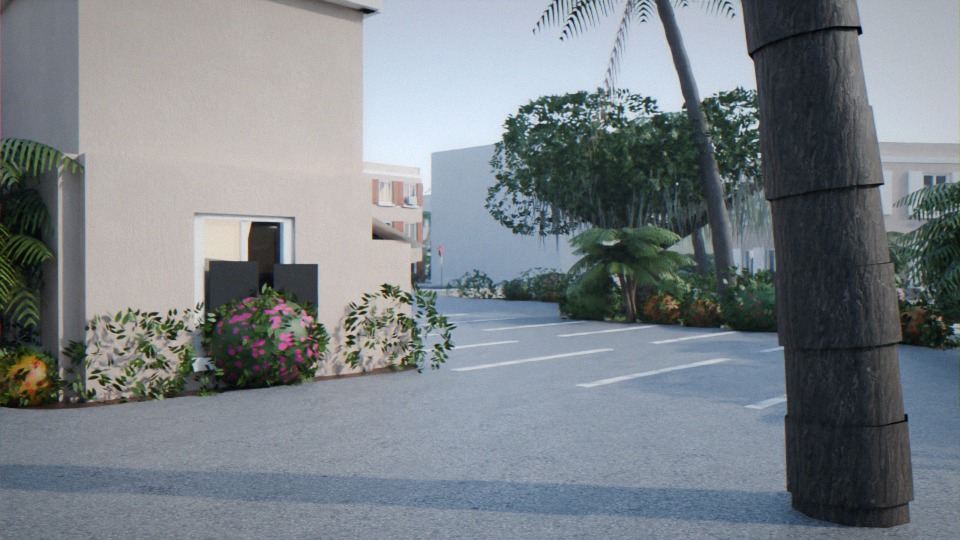
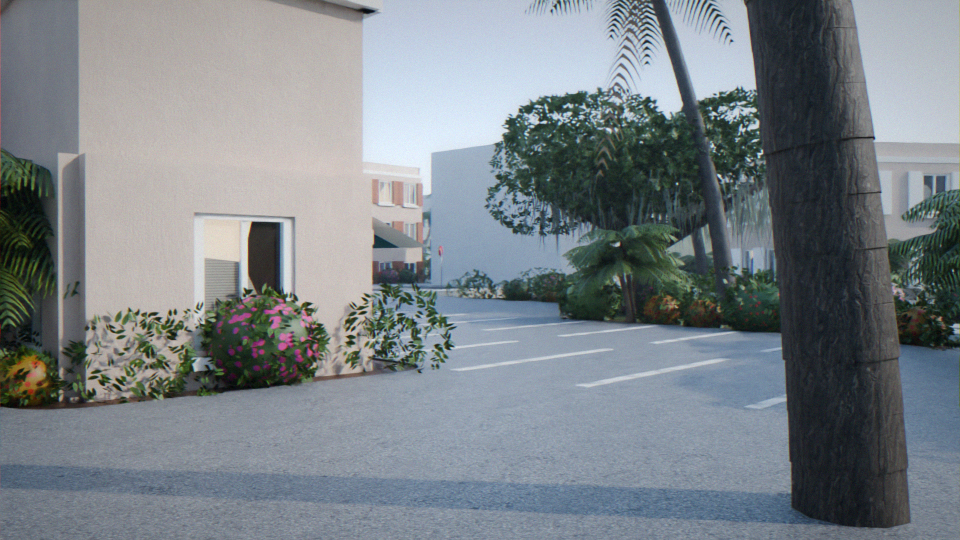
Real shop interiors by business type (salon, food, office, clothing, jewelry, gym, retail) behind full glazing; signs name the business; park trees on the real ground; denser varied grass
Claude-Session: https://claude.ai/code/session_01PWmpu53kThn7KFGp88wUgC

diff --git a/costa-verde/tools/blender/detail_town.py b/costa-verde/tools/blender/detail_town.py
@@ -31,7 +31,7 @@ SURF = {
     "frame": (0.5, 0, None), "roof_tile": (0.75, 0, None), "roof_flat": (0.95, 0, (176, 172, 164)),
     "metal": (0.4, 0.7, (178, 180, 182)), "awning": (0.8, 0, None), "door": (0.6, 0, None), "concrete": (0.9, 0, (198, 194, 186)),
     "asphalt": (0.92, 0, (52, 52, 55)), "paint": (0.7, 0, None), "pool": (0.05, 0, (60, 170, 210)), "wood": (0.8, 0, (150, 118, 84)),
-    "pole": (0.5, 0.6, (90, 92, 94)), "lamp": (0.3, 0, (255, 244, 214)), "solar": (0.08, 0.3, (22, 30, 52)), "neon": (0.3, 0, (255, 40, 50)),
+    "pole": (0.5, 0.6, (90, 92, 94)), "lamp": (0.3, 0, (255, 244, 214)), "solar": (0.08, 0.3, (22, 30, 52)), "neon": (0.3, 0, (255, 40, 50)), "shopglass": (0.02, 0, (30, 36, 40)), "mirror": (0.02, 1.0, (220, 224, 226)), "floor": (0.35, 0, None), "fabric": (0.85, 0, None),
 }
 PASTEL = [(242, 200, 168), (196, 226, 206), (246, 228, 160), (240, 170, 150), (180, 212, 230), (244, 236, 214), (236, 236, 230)]
 HOUSE_COL = [(246, 240, 224), (236, 226, 200), (214, 222, 200), (206, 220, 230), (240, 214, 190), (250, 250, 246)]
@@ -273,6 +273,118 @@ def pitched_roof(m, poly, y, kind, tile_col, wall_col, rng=None):
         m.box("trim", (mx, y - 0.4, mz), ((b[0] - a[0]) / L, (b[2] - a[2]) / L), L, 0.9, 0.5)
 
 
+INTERIOR_KIND = {"Barber shop": "salon", "Beauty salon": "salon", "Nail salon": "salon", "Full-service restaurant": "food", "Fast food": "food",
+                 "Coffee shop / snack bar": "food", "Bar / nightclub": "food", "Clothing store": "clothing", "Thrift / used goods": "clothing",
+                 "Shoe store": "clothing", "Jewelry store": "jewelry", "Fitness centre / gym": "gym"}
+OFFICE = ("office", "agency", "Doctor", "Dentist", "care", "Veterinarian", "Law", "Real estate", "Insurance", "school", "Bank", "Credit")
+SIGN_TEXT = {"Barber shop": "BARBER", "Beauty salon": "SALON", "Full-service restaurant": "RESTAURANT", "Fast food": "BURGERS",
+             "Coffee shop / snack bar": "CAFE", "Clothing store": "BOUTIQUE", "Thrift / used goods": "THRIFT", "Jewelry store": "JEWELRY",
+             "Doctor's office": "FAMILY MEDICINE", "Real estate office": "REALTY", "Insurance agency": "INSURANCE", "Law office": "LAW OFFICE",
+             "Pharmacy": "PHARMACY", "Convenience store": "FOOD MART", "Sporting goods (incl. gun shops)": "SPORTS", "Fitness centre / gym": "FITNESS",
+             "Veterinarian": "ANIMAL CLINIC", "Urgent care / outpatient centre": "URGENT CARE", "Tire shop": "TIRES", "Child day care": "DAY CARE",
+             "Auto repair (general)": "AUTO REPAIR", "Body / paint shop": "BODY SHOP", "Used car dealer": "AUTO SALES"}
+
+
+def interior_kind(use):
+    if use in INTERIOR_KIND:
+        return INTERIOR_KIND[use]
+    return "office" if any(k in (use or "") for k in OFFICE) else "retail"
+
+
+def interior(m, poly, kind, rng, ceil):
+    """Furnish a shop's ground floor so it reads through the glass. Local frame: street at min z."""
+    xs, zs = [p[0] for p in poly], [p[1] for p in poly]
+    x0, x1, z0, z1 = min(xs) + 1.5, max(xs) - 1.5, min(zs) + 1.5, max(zs) - 1.5
+    ok = lambda x, z: inside(poly, x, z) and x0 < x < x1 and z0 < z < z1  # noqa: E731
+    U = (1, 0)
+    floor_col = {"salon": (230, 230, 226), "food": (150, 110, 80), "office": (120, 120, 126), "clothing": (190, 170, 140),
+                 "jewelry": (40, 40, 44), "gym": (50, 50, 54), "retail": (210, 210, 204)}[kind]
+    m.face("floor", [(x, 0.4, z) for x, z in poly][::-1], floor_col)
+    m.face("trim", [(x, ceil - 0.3, z) for x, z in poly], (236, 234, 228))  # ceiling, facing down
+    for gx in range(int(x0) + 3, int(x1) - 1, 8):  # ceiling light panels
+        for gz in range(int(z0) + 3, int(z1) - 1, 8):
+            if ok(gx, gz):
+                m.box("lamp", (gx, ceil - 0.45, gz), U, 3, 0.15, 1.2)
+    depth = z1 - z0
+    if kind == "salon":
+        for k, x in enumerate(range(int(x0) + 3, int(x1) - 2, 6)):
+            z = z0 + 3.5
+            if ok(x, z + 4):
+                m.box("pole", (x, 1.0, z + 4), U, 1.0, 1.6, 1.0)  # chair base
+                m.box("fabric", (x, 2.4, z + 4), U, 2.6, 1.0, 2.6, (30, 30, 32))  # seat
+                m.box("fabric", (x, 4.0, z + 5.2), U, 2.6, 3.0, 0.6, (30, 30, 32))  # back
+                m.box("mirror", (x, 5.5, z1 - 0.3), U, 4, 5, 0.2)  # mirror on the back wall
+                m.box("wood", (x, 3.4, z1 - 1.2), U, 4.5, 0.4, 1.6)  # station shelf
+        m.box("wood", (x1 - 5, 2.0, z0 + 3), U, 6, 4, 2, (240, 240, 236))  # reception
+    elif kind == "food":
+        m.box("wood", ((x0 + x1) / 2, 2.2, z1 - 2), U, (x1 - x0) * 0.7, 4.4, 2.2)  # counter
+        m.box("door", ((x0 + x1) / 2, 7.5, z1 - 0.3), U, (x1 - x0) * 0.5, 2.5, 0.2, (25, 25, 25))  # menu board
+        for x in range(int(x0) + 3, int(x1) - 2, 7):
+            for z in (z0 + 4, z0 + 4 + min(8, depth * 0.35)):
+                if ok(x, z):
+                    m.box("wood", (x, 3.5, z), U, 3.2, 0.3, 3.2, (120, 80, 50))  # table
+                    m.box("pole", (x, 1.7, z), U, 0.4, 3.4, 0.4)
+                    for dx, dz in ((-2.3, 0), (2.3, 0)):
+                        m.box("fabric", (x + dx, 2.0, z + dz), U, 1.6, 0.4, 1.6, rng.choice([(140, 40, 30), (40, 40, 40), (200, 170, 60)]))
+                        m.box("fabric", (x + dx * 1.3, 3.5, z + dz), U, 0.3, 3.0, 1.6, (40, 40, 40))
+                    m.box("lamp", (x, ceil - 3, z), U, 0.8, 0.8, 0.8)  # pendant light
+    elif kind == "office":
+        for x in range(int(x0) + 4, int(x1) - 3, 9):
+            for z in (z0 + 6, z0 + 6 + min(9, depth * 0.4)):
+                if ok(x, z):
+                    m.box("wood", (x, 3.3, z), U, 5, 0.3, 2.6, (200, 196, 186))  # desk
+                    m.box("pole", (x - 2.2, 1.6, z), U, 0.3, 3.2, 2.4)
+                    m.box("pole", (x + 2.2, 1.6, z), U, 0.3, 3.2, 2.4)
+                    m.box("door", (x, 4.6, z + 0.6), U, 2.0, 1.4, 0.15, (20, 20, 22))  # monitor
+                    m.box("fabric", (x, 2.3, z - 2.0), U, 1.8, 2.6, 1.8, (30, 30, 34))  # chair
+        for x in range(int(x0) + 2, int(x1) - 1, 3):  # filing cabinets / shelving along the back
+            if ok(x, z1 - 1):
+                m.box("metal", (x, 2.6, z1 - 1), U, 2.6, 5.2, 1.6, (170, 172, 170))
+        m.box("fabric", (x0 + 3, 1.8, z0 + 2.5), U, 5, 1.6, 2, (60, 90, 120))  # waiting bench by the window
+    elif kind == "clothing":
+        for x in range(int(x0) + 4, int(x1) - 3, 7):
+            z = z0 + 6
+            if ok(x, z):
+                m.box("pole", (x, 5.2, z), U, 5, 0.2, 0.2)  # rail
+                for k in range(9):  # garments
+                    m.box("fabric", (x - 2.2 + k * 0.55, 3.6, z), U, 0.35, 3.0, 2.0,
+                          rng.choice([(200, 60, 60), (40, 60, 110), (230, 230, 220), (30, 30, 30), (90, 130, 90), (210, 170, 120)]))
+        for x in range(int(x0) + 2, int(x1) - 1, 4):  # wall shelves with folded stacks
+            if ok(x, z1 - 1):
+                for lvl in (2, 4, 6):
+                    m.box("wood", (x, lvl, z1 - 1), U, 3.6, 0.2, 1.6)
+                    m.box("fabric", (x, lvl + 0.5, z1 - 1), U, 3.0, 0.8, 1.2, rng.choice([(170, 50, 50), (50, 70, 120), (220, 220, 210)]))
+        for k in range(2):  # mannequins in the window
+            x = x0 + 4 + k * 6
+            if ok(x, z0 + 2.5):
+                m.box("trim", (x, 3.4, z0 + 2.5), U, 1.0, 6.4, 0.8, (236, 228, 214))
+                m.box("fabric", (x, 4.2, z0 + 2.5), U, 1.6, 2.6, 1.2, rng.choice([(180, 40, 60), (30, 30, 30)]))
+    elif kind == "jewelry":
+        for x in range(int(x0) + 4, int(x1) - 3, 7):
+            for z in (z0 + 5, z1 - 3):
+                if ok(x, z):
+                    m.box("wood", (x, 1.8, z), U, 5, 3.6, 2, (30, 30, 34))
+                    m.box("shopglass", (x, 4.4, z), U, 5, 1.6, 2)  # glass case
+                    m.box("lamp", (x, 3.75, z), U, 4.6, 0.1, 1.6)
+    elif kind == "gym":
+        for x in range(int(x0) + 4, int(x1) - 3, 6):
+            if ok(x, z0 + 5):
+                m.box("pole", (x, 2.4, z0 + 5), U, 2.2, 4.8, 5, (40, 40, 44))  # treadmill
+        m.box("mirror", ((x0 + x1) / 2, 5.5, z1 - 0.3), U, x1 - x0 - 2, 6, 0.2)
+        m.box("pole", ((x0 + x1) / 2, 4, z1 - 3), U, 6, 8, 1, (60, 60, 64))  # rack
+    else:  # retail: shelf gondolas parallel to the street, stocked, checkout by the door
+        for z in [z0 + 7 + k * 6 for k in range(int((depth - 8) // 6))]:
+            for x in range(int(x0) + 4, int(x1) - 3, 8):
+                if ok(x, z):
+                    m.box("metal", (x, 2.8, z), U, 6.5, 5.6, 1.8, (220, 220, 216))
+                    for lvl in (1.2, 2.6, 4.0, 5.4):
+                        for side in (-1, 1):
+                            for k in range(4):
+                                m.box("fabric", (x - 2.4 + k * 1.6, lvl + 0.5, z + side * 1.0), U, 1.2, 0.9, 0.3,
+                                      rng.choice([(200, 50, 40), (40, 90, 160), (240, 200, 60), (60, 140, 80), (240, 240, 230), (150, 60, 140)]))
+        m.box("wood", (x1 - 5, 2.0, z0 + 3.5), U, 6, 4, 2.2, (230, 230, 226))  # checkout
+
+
 def building(idx, b):
     rng = random.Random(idx)
     c, s = math.cos(math.radians(b["rot"])), math.sin(math.radians(b["rot"]))
@@ -302,7 +414,17 @@ def building(idx, b):
             for x, z in poly:
                 m.box("pole", (x * 0.8, (y0 + h) / 2, z * 0.8), (1, 0), 1.5, y0 + h, 1.5)
             continue
-        m.prism("wall", poly, y0 - 3, y0 + h, wall_col, top=False)
+        shop_part = style in ("stucco", "shack") and pi == 0 and y0 == 0 and h >= 11 and any(e[3][1] < -0.7 for e in edges(poly))
+        CEIL = 10.0
+        if shop_part:  # ground floor is a real room open to the street through glass; walls only on the other sides
+            m.prism("wall", poly, CEIL, y0 + h, wall_col, top=False)
+            for e in edges(poly):
+                if e[3][1] >= -0.7:
+                    (ax_, az_), (bx_, bz_) = e[0], e[1]
+                    m.face("wall", [(ax_, -3, az_), (bx_, -3, bz_), (bx_, CEIL, bz_), (ax_, CEIL, az_)], wall_col)
+            interior(m, poly, interior_kind(b.get("use")), rng, CEIL)
+        else:
+            m.prism("wall", poly, y0 - 3, y0 + h, wall_col, top=False)
         if y0 == 0 and style != "tower":  # base course: a slightly proud, darker plinth
             big = [(x * (1 + 0.6 / max(1, abs(x))) if abs(x) > 0.1 else x, z * (1 + 0.6 / max(1, abs(z))) if abs(z) > 0.1 else z) for x, z in poly]
             m.prism("wall", big, -1, 1.8, tuple(int(v * 0.72) for v in wall_col), top=False)
@@ -322,32 +444,17 @@ def building(idx, b):
                 continue
             for f in range(floors):
                 yb = y0 + f * fh
-                shop = style in ("stucco", "shack") and f == 0 and street and y0 == 0
-                if shop:  # shopfront: a display bay 3.4 deep with the shop inside, door, striped awning
-                    cx, cz = a[0] + u[0] * L / 2, a[1] + u[1] * L / 2
-                    D = 3.4
-                    at = lambda d: (cx + n[0] * d, cz + n[1] * d)  # noqa: E731
-                    gx, gz = at(D)
-                    m.box("glass", (gx, 4.6, gz), u, L - 4, 7.2, 0.2)
-                    m.box("door", (gx + n[0] * 0.1 + u[0] * (L / 2 - 5), 4, gz + n[1] * 0.1 + u[1] * (L / 2 - 5)), u, 3.5, 8, 0.3, (40, 40, 40))
-                    m.box("trim", (gx + n[0] * 0.2, 8.6, gz + n[1] * 0.2), u, L - 2, 0.8, 0.8)
-                    sx, sz = at(D / 2)
-                    m.box("wall", (sx, 9.1, sz), u, L - 1, 0.6, D + 0.4, wall_col)  # soffit
-                    m.box("concrete", (sx, 0.3, sz), u, L - 1, 0.6, D + 0.4)  # display floor / threshold
-                    for side in (-1, 1):  # end piers
-                        px, pz = sx + u[0] * (L / 2 - 1) * side, sz + u[1] * (L / 2 - 1) * side
-                        m.box("wall", (px, 4.6, pz), u, 2, 9.2, D + 0.4, wall_col)
-                    lx, lz = at(D * 0.45)
-                    m.box("lamp", (lx, 8.7, lz), u, L - 5, 0.15, 0.6)  # ceiling light strip
-                    for k in range(max(2, int((L - 6) // 4))):  # shelves and goods behind the glass
-                        t = -L / 2 + 4 + k * 4
-                        bx_, bz_ = at(1.0)
-                        m.box("door", (bx_ + u[0] * t, 2.8, bz_ + u[1] * t), u, 3.2, 4.8, 1.4, rng.choice([(150, 120, 90), (90, 100, 120), (200, 190, 170), (120, 60, 50)]))
-                    cx2, cz2 = at(2.2)
-                    m.box("wood", (cx2 + u[0] * (L / 2 - 8), 1.8, cz2 + u[1] * (L / 2 - 8)), u, 4, 3.6, 1.2)  # counter
-                    if rng.random() < 0.35:  # neon OPEN sign in the window
-                        nx_, nz_ = at(D - 0.3)
-                        m.box("neon", (nx_ - u[0] * (L / 4), 6.2, nz_ - u[1] * (L / 4)), u, 3, 1.1, 0.15)
+                shop = style in ("stucco", "shack") and f == 0 and street and y0 == 0 and shop_part
+                if shop and shop_part:  # shopfront: full-width glazing at the wall line into the room, door, sign band
+                    cx, cz = a[0] + u[0] * L / 2 + n[0] * 0.05, a[1] + u[1] * L / 2 + n[1] * 0.05
+                    m.box("shopglass", (cx, 4.9, cz), u, L - 1, 8.4, 0.15)
+                    for k in range(int(L // 7) + 1):  # mullions
+                        t = -L / 2 + 0.5 + k * (L - 1) / max(1, int(L // 7))
+                        m.box("frame", (cx + u[0] * t, 4.9, cz + u[1] * t), u, 0.4, 8.6, 0.4, (50, 50, 52))
+                    m.box("frame", (cx, 0.7, cz), u, L - 1, 0.6, 0.5, (50, 50, 52))  # base rail
+                    dx = L / 2 - 4
+                    m.box("door", (cx + u[0] * dx + n[0] * 0.1, 4.2, cz + u[1] * dx + n[1] * 0.1), u, 3.6, 8.2, 0.25, (40, 40, 42))
+                    m.box("wall", (cx + n[0] * 0.3, (CEIL + 9.1) / 2, cz + n[1] * 0.3), u, L, CEIL - 9.1, 0.8, wall_col)  # sign band
                     acol = rng.choice(AWNING)
                     for k in range(max(1, int(L // 3))):
                         t = (k + 0.5) / max(1, int(L // 3))
@@ -453,7 +560,7 @@ def building(idx, b):
         if width > 12:
             sign_col = rng.choice([(30, 40, 60), (120, 30, 30), (20, 80, 70), (230, 220, 200), (60, 40, 30)])
             m.box("door", (0, 13.6, min(zs) - 0.6), (1, 0), min(width * 0.6, 26), 2.6, 0.6, sign_col)
-            SIGNS.append((tf, min(zs) - 1.0, min(width * 0.55, 24), rng))
+            SIGNS.append((tf, min(zs) - 1.0, min(width * 0.55, 24), rng, SIGN_TEXT.get(b.get("use"))))
     return m.finish()
 
 
@@ -572,7 +679,7 @@ def main_real():
     realism.signs(SIGNS)
     realism.weather(objs)
     realism.haze(CX, CZ, gy)
-    lawn, beds, fences = realism.landcover(detailed, walk_outer, zone, gy, rng, palms, oaks)
+    lawn, beds, fences = realism.landcover(detailed, walk_outer, zone, gy, rng, palms, oaks, ground)
     realism.PLANTS.update(realism.florida_plants())
     print("bed plants:", realism.plant_beds(beds, gy, rng, walk_outer.buffer(10)))
     print("fence plants:", realism.plants_on_fences(fences, gy, rng, realism.PLANTS))
@@ -580,7 +687,7 @@ def main_real():
     realism.clutter(roads, asphalt, walk_outer, zone, gy, rng, wet=preset in ("rain", "night", "dusk"))
     realism.real_trees(oaks, palms)
     terrain = bpy.data.objects["ground"]
-    realism.grass(terrain, (CX - 260, CZ - 260, CX + 260, CZ + 260), lawn)
+    realism.grass(terrain, (CX - 220, CZ - 220, CX + 220, CZ + 220), lawn)
     Lr = _m.hypot(r["bx"] - r["ax"], r["bz"] - r["az"])
     realism.time_of_day(preset, ((r["bx"] - r["ax"]) / Lr, (r["bz"] - r["az"]) / Lr))
     if "--hero" in sys.argv:

diff --git a/costa-verde/tools/blender/realism.py b/costa-verde/tools/blender/realism.py
@@ -216,7 +216,9 @@ def realify(objs, ground_z):
             "door": mat_simple("real_door", (0, 0, 0), 0.5, vertex=True), "awning": mat_simple("real_awning", (0, 0, 0), 0.85, vertex=True),
             "roof_flat": mat_concrete((0.5, 0.49, 0.46), "real_roof_flat"), "metal": mat_simple("real_metal", (176, 178, 180), 0.35, 0.8),
             "pool": mat_simple("real_pool", (40, 150, 190), 0.03), "paint": mat_simple("real_paint", (0, 0, 0), 0.6, vertex=True),
-            "pole": mat_simple("real_pole", (80, 82, 84), 0.45, 0.7), "solar": mat_solar(), "lamp": mat_simple("real_lamp", (255, 240, 210), 0.3, emit=(1, 0.85, 0.6))}
+            "pole": mat_simple("real_pole", (80, 82, 84), 0.45, 0.7), "solar": mat_solar(), "shopglass": mat_clear_glass(),
+            "mirror": mat_simple("real_mirror", (230, 232, 234), 0.02, 1.0), "floor": mat_simple("real_floor", (0, 0, 0), 0.3, vertex=True),
+            "fabric": mat_simple("real_fabric", (0, 0, 0), 0.8, vertex=True), "lamp": mat_simple("real_lamp", (255, 240, 210), 0.3, emit=(1, 0.85, 0.6))}
     for o in objs:
         me = o.data
         for i, mt in enumerate(me.materials):
@@ -492,12 +494,12 @@ def hero_palm(seed, dwarf=False):
     uvl = bm.loops.layers.uv.new("UVMap")
     H = rng.uniform(6, 10) if dwarf else rng.uniform(34, 44)
     lean = rng.uniform(0.5, 1.5) if dwarf else rng.uniform(4, 10)
-    segs = 10 if dwarf else 28
+    segs = 10 if dwarf else 40
     rr = 0.35 if dwarf else 1.15
     for i in range(segs):
         t0, t1 = i / segs, (i + 1) / segs
         p0, p1 = Vector((lean * t0 ** 1.6, 0, H * t0)), Vector((lean * t1 ** 1.6, 0, H * t1))
-        r = rr * (1 - 0.35 * t0) + (rr * 0.07 if i % 2 else 0)
+        r = rr * (1 - 0.35 * t0) * (1 + rng.uniform(-0.015, 0.03))  # subtle, irregular leaf-scar rings
         d = p1 - p0
         rot = d.to_track_quat("Z", "Y").to_matrix().to_4x4()
         res = bmesh.ops.create_cone(bm, cap_ends=False, segments=10, radius1=r, radius2=r * 0.97, depth=d.length, matrix=Matrix.Translation((p0 + p1) / 2) @ rot)
@@ -793,7 +795,7 @@ def shrubs_by_name(name):
     return _SHRUBS[name]
 
 
-def grass(terrain_obj, zone, lawn, density=900000):
+def grass(terrain_obj, zone, lawn, density=340000):
     """Grass blades on lawn ground inside the zone, kept off roads, sidewalks and buildings."""
     me = terrain_obj.data
     vg = terrain_obj.vertex_groups.new(name="lawn")
@@ -812,17 +814,27 @@ def grass(terrain_obj, zone, lawn, density=900000):
     ps = mod.particle_system
     ps.vertex_group_density = "lawn"
     st = ps.settings
-    st.type, st.count, st.hair_length = "HAIR", density, 1.8
+    st.type, st.count, st.hair_length = "HAIR", density, 1.4
     st.use_advanced_hair = True
-    st.factor_random = 0.6
-    st.brownian_factor = 0.08
+    st.factor_random = 0.12  # mostly upright blades, a little lean
+    st.brownian_factor = 0.02
     try:
-        st.root_radius, st.tip_radius = 0.1, 0.02
+        st.root_radius, st.tip_radius = 0.035, 0.0
         st.radius_scale = 1.0
     except AttributeError:
         pass
     st.render_type = "PATH"
-    blade = mat_foliage("grass_blades", (72, 112, 58), 0.35)  # St. Augustine: broad, blue-green
+    st.child_type = "INTERPOLATED"  # dense turf: 6 children per guide strand
+    st.rendered_child_count, st.child_percent = 6, 6
+    st.child_radius, st.child_length, st.child_length_threshold = 0.6, 0.85, 0.3
+    blade, nt, b = _nodes("grass_blades")
+    hi = _n(nt, "ShaderNodeHairInfo")
+    shade = _mix(nt, _lin((62, 104, 50)), _lin((150, 150, 80)), _rng(nt, hi.outputs["Random"], 0.7, 1.0, 0, 1))  # a few dry blades
+    shade = _mix(nt, shade, _lin((44, 80, 36)), _rng(nt, hi.outputs["Random"], 0.0, 0.35, 0.6, 0))  # and darker ones
+    tip = _mix(nt, tuple(x * 0.35 for x in _lin((60, 90, 40))), shade, _rng(nt, hi.outputs["Intercept"], 0, 0.6, 0, 1))  # dark at the root
+    nt.links.new(tip, b.inputs["Base Color"])
+    b.inputs["Roughness"].default_value = 0.6
+    b.inputs["Subsurface Weight"].default_value = 0.2
     me.materials.append(blade)
     st.material = len(me.materials)
     return ps
@@ -888,9 +900,9 @@ SHOP_NAMES = ["PHARMACY", "CAFE", "LAUNDROMAT", "BARBER", "TACOS", "LIQUORS", "N
 def signs(items):
     """Shop names in raised letters on the sign boards."""
     mat = mat_simple("sign_letters", (244, 240, 228), 0.4)
-    for tf, z, width, rng in items:
+    for tf, z, width, rng, text in items:
         cu = bpy.data.curves.new("sign", "FONT")
-        cu.body = rng.choice(SHOP_NAMES)
+        cu.body = text or rng.choice(SHOP_NAMES)
         cu.align_x, cu.align_y = "CENTER", "CENTER"
         cu.extrude = 0.12
         cu.size = 1.7
@@ -917,7 +929,9 @@ def weather(objs):
     co = _coords(nt)
     n1 = _n(nt, "ShaderNodeTexNoise", Scale=0.05, Detail=6.0)
     nt.links.new(co, n1.inputs["Vector"])
-    c = _mix(nt, src, (0.2, 0.17, 0.08), _rng(nt, n1.outputs["Fac"], 0.5, 0.68, 0, 0.55))
+    photo_grass = cc0(nt, "Grass004", 6)["Color"]
+    src2 = _mix(nt, src, photo_grass, _rng(nt, n1.outputs["Fac"], 0, 1, 0.75, 0.75), "MULTIPLY")
+    c = _mix(nt, src2, (0.2, 0.17, 0.08), _rng(nt, n1.outputs["Fac"], 0.5, 0.68, 0, 0.55))
     n2 = _n(nt, "ShaderNodeTexNoise", Scale=0.4, Detail=8.0)
     nt.links.new(co, n2.inputs["Vector"])
     c = _mix(nt, c, (0.11, 0.08, 0.05), _rng(nt, n2.outputs["Fac"], 0.62, 0.72, 0, 0.6))
@@ -1067,7 +1081,7 @@ def photo_upgrade():
 
 # ---------------------------------------------------------------- land cover, trees with real leaves
 
-def landcover(detailed, street_area, zone, gy, rng, palms, oaks):
+def landcover(detailed, street_area, zone, gy, rng, palms, oaks, ground=None):
     """Every bit of ground gets a real use: paved lots, alleys, mulch beds, fences, parks, dirt. Returns lawn area."""
     from shapely.geometry import MultiPoint
     from shapely.ops import voronoi_diagram
@@ -1134,7 +1148,7 @@ def landcover(detailed, street_area, zone, gy, rng, palms, oaks):
         for _ in range(int(p.area / 1100)):
             x, z = rng.uniform(x0, x1), rng.uniform(z0, z1)
             if p.buffer(-6).contains(Point(x, z)) and not any(q.contains(Point(x, z)) for q in paths):
-                place(rng.choice(oaks + palms), x, z, gy, rng.uniform(0, 6.28), rng.uniform(0.8, 1.15))
+                place(rng.choice(oaks + palms), x, z, (ground(x, z) if ground else gy) - 0.4, rng.uniform(0, 6.28), rng.uniform(0.8, 1.15))
     asph = bpy.data.materials.get("photo_asphalt") or mat_asphalt()
     _slab("lots", unary_union(paved), gy - 0.5, gy + 0.32, asph)
     _slab("stalls", unary_union(stalls).intersection(unary_union(paved)), gy + 0.32, gy + 0.36, mat_paint("stall_paint", (236, 236, 230)))
@@ -1507,3 +1521,13 @@ def time_of_day(preset, view=None):
         _lights_on(lit, lamps, (1.0, 0.78, 0.5) if preset == "dusk" else (1.0, 0.85, 0.65))
     elif lit:
         _lights_on(lit, 0, (1, 1, 1))
+
+
+def mat_clear_glass():
+    """Shop windows: clear glass so the modelled display bay shows through, with reflections."""
+    m, nt, b = _nodes("real_shopglass")
+    b.inputs["Base Color"].default_value = (0.9, 0.95, 0.95, 1)
+    b.inputs["Transmission Weight"].default_value = 1.0
+    b.inputs["Roughness"].default_value = 0.02
+    b.inputs["IOR"].default_value = 1.45
+    return m
